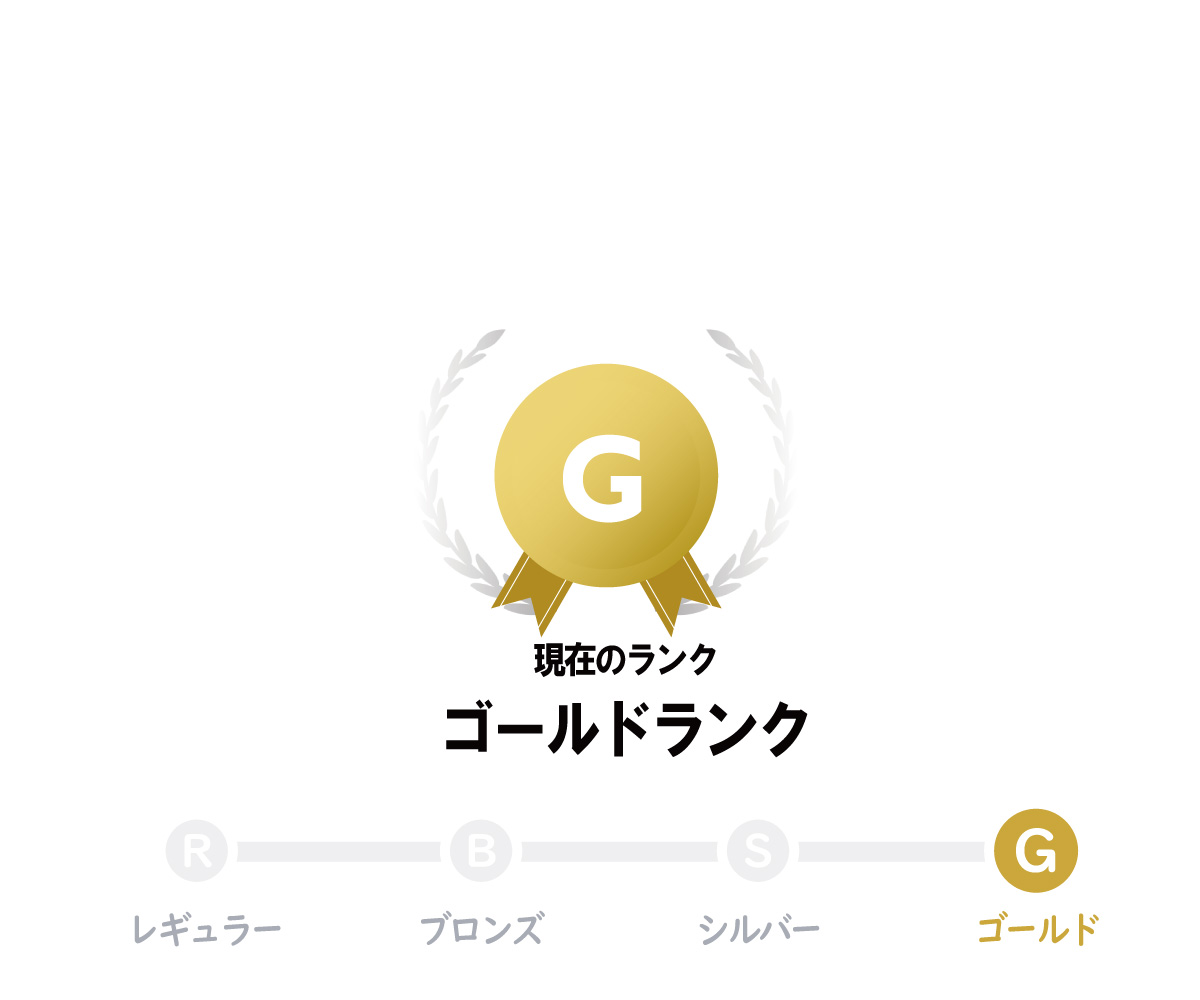
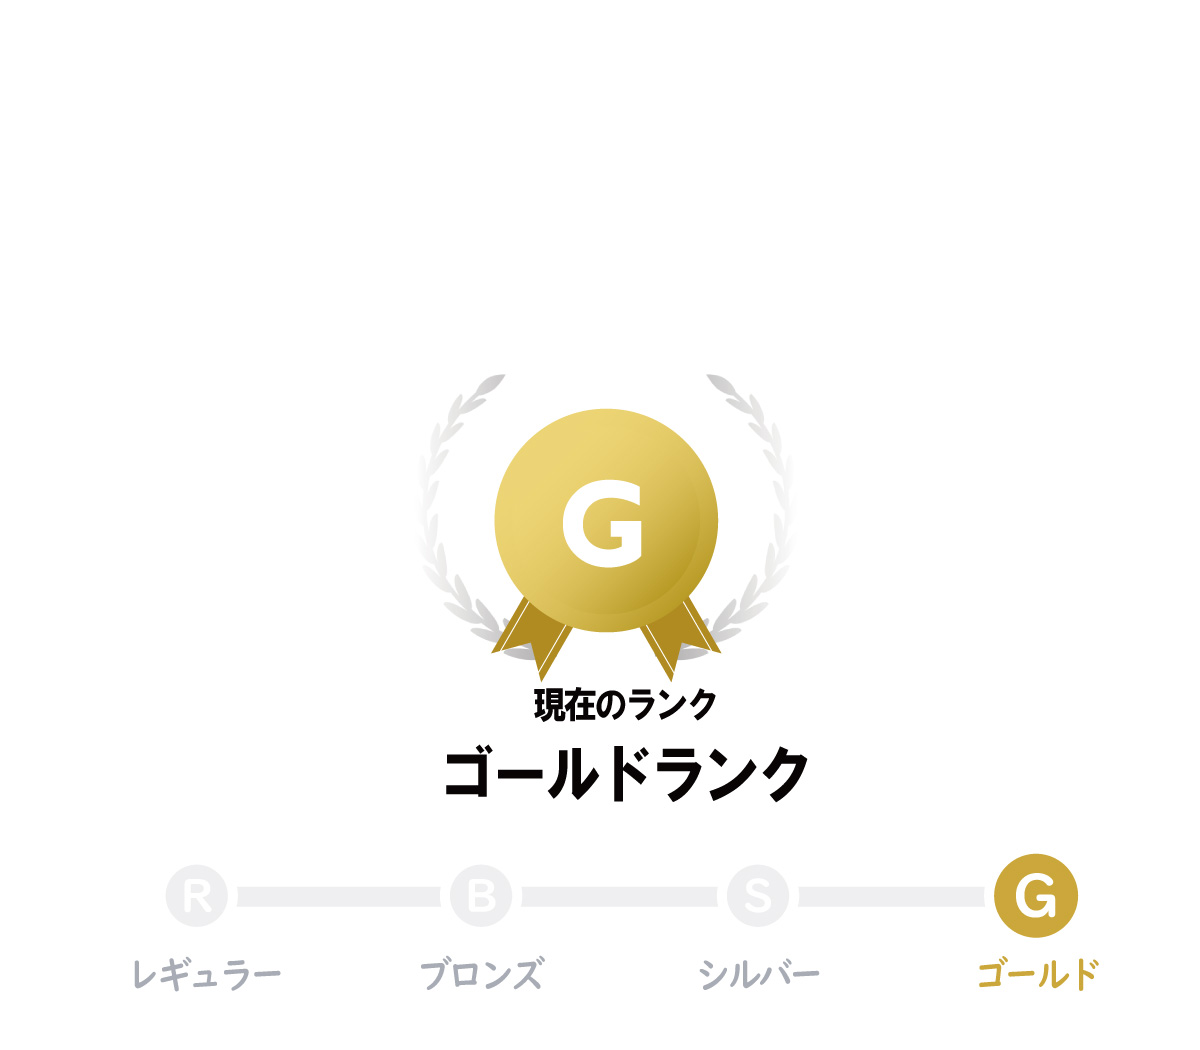
initial commit

diff --git a/public/stylesheets/main.css b/public/stylesheets/main.css
@@ -13,7 +13,7 @@ body{
 #customer_area{
     font-size:1.5rem;
 }
-#wrap{background-size: cover;width:100%;height:auto;}
+#wrap{background-size: cover;width:100%;height:100%;}
 .rank_gold{background-image:url(../img/rank-gold.jpg);}
 .rank_silver{background-image:url(../img/rank-silver.jpg);}
 .rank_bronze{background-image:url(../img/rank-bronze.jpg);}
